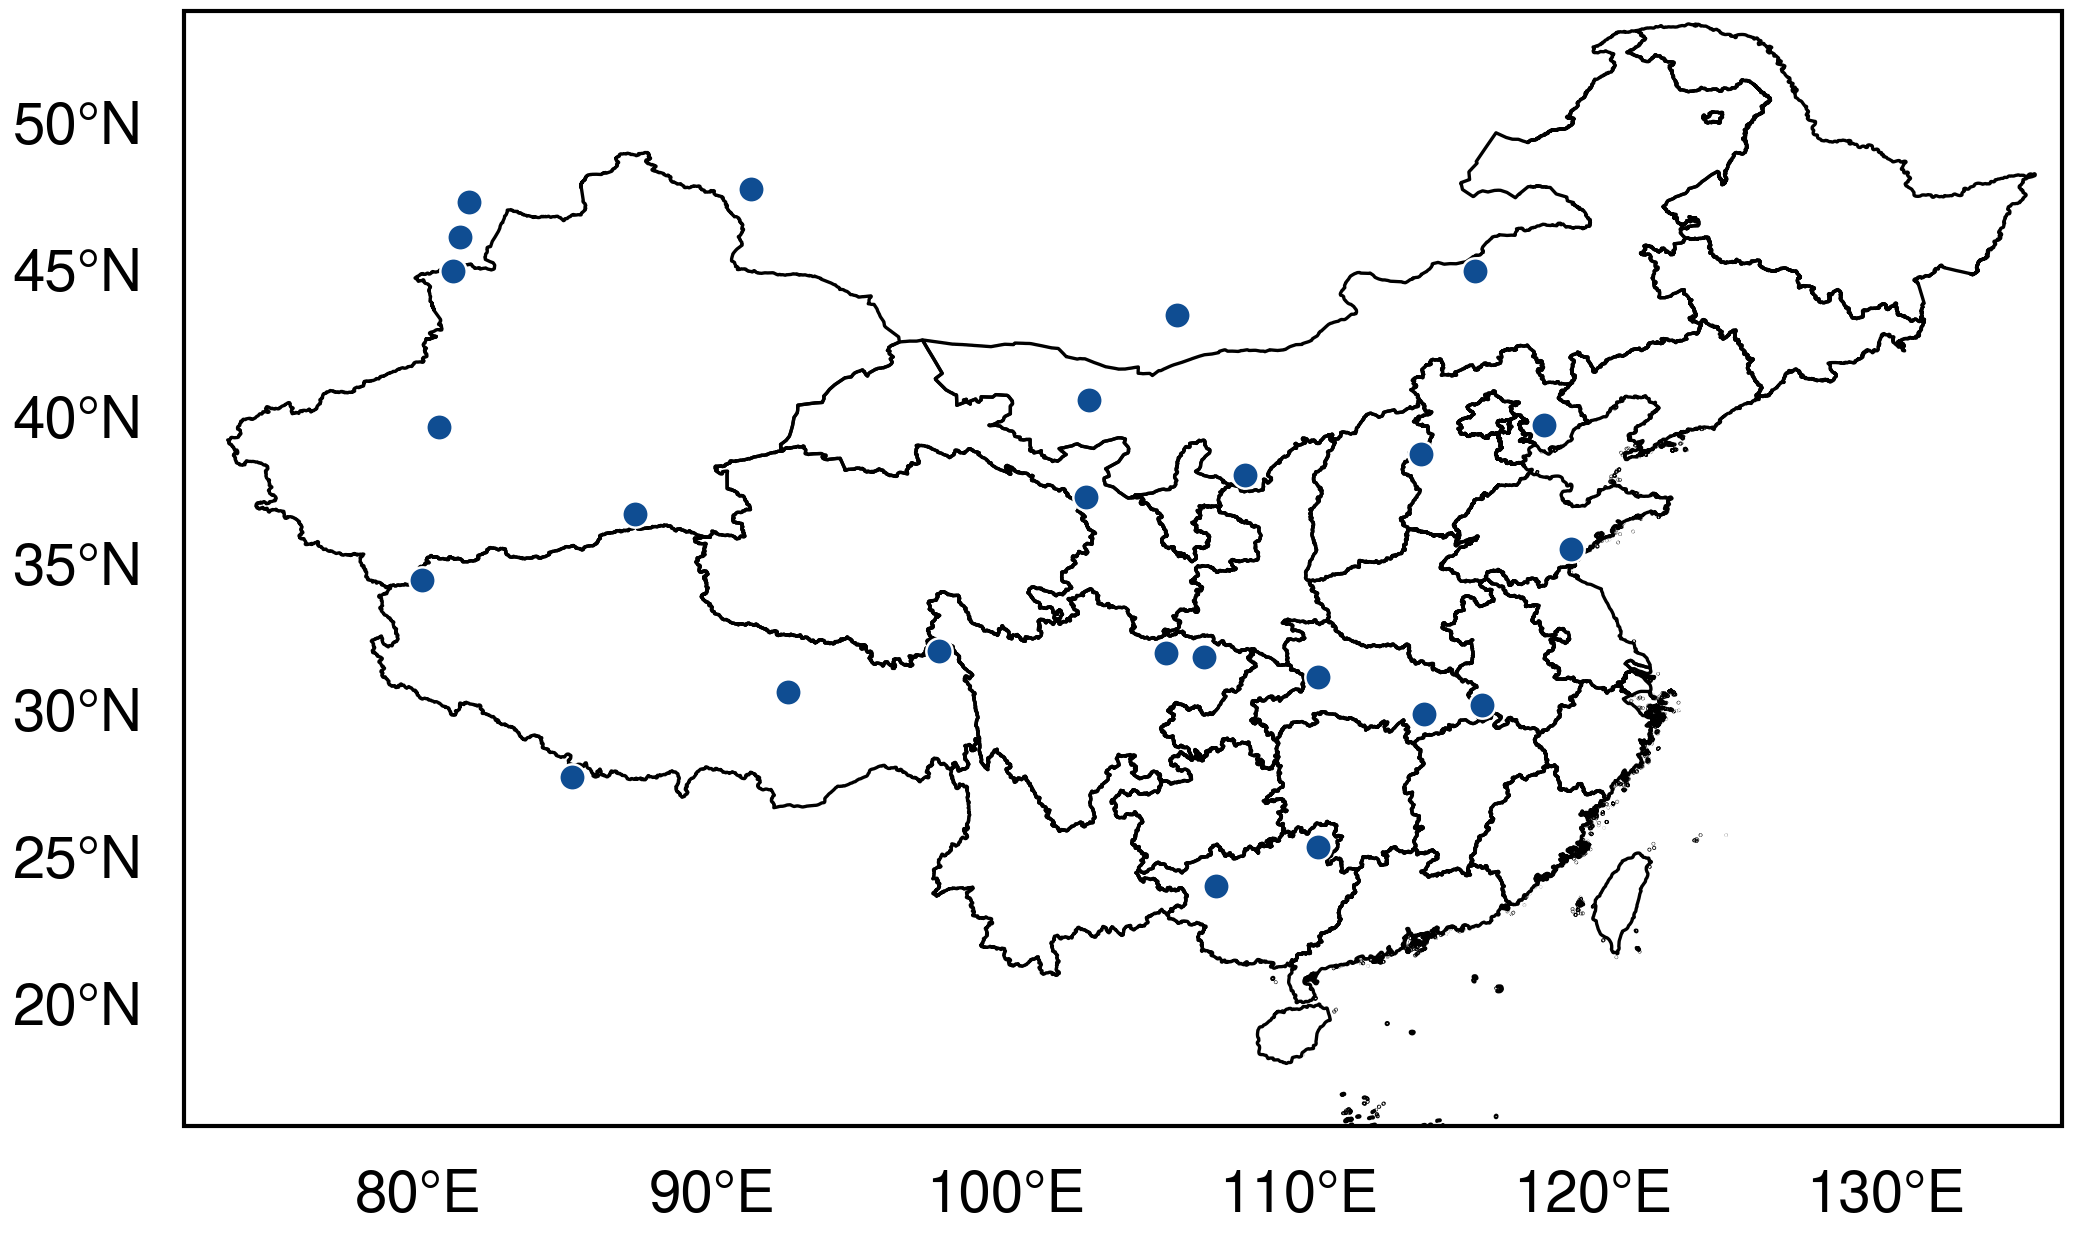
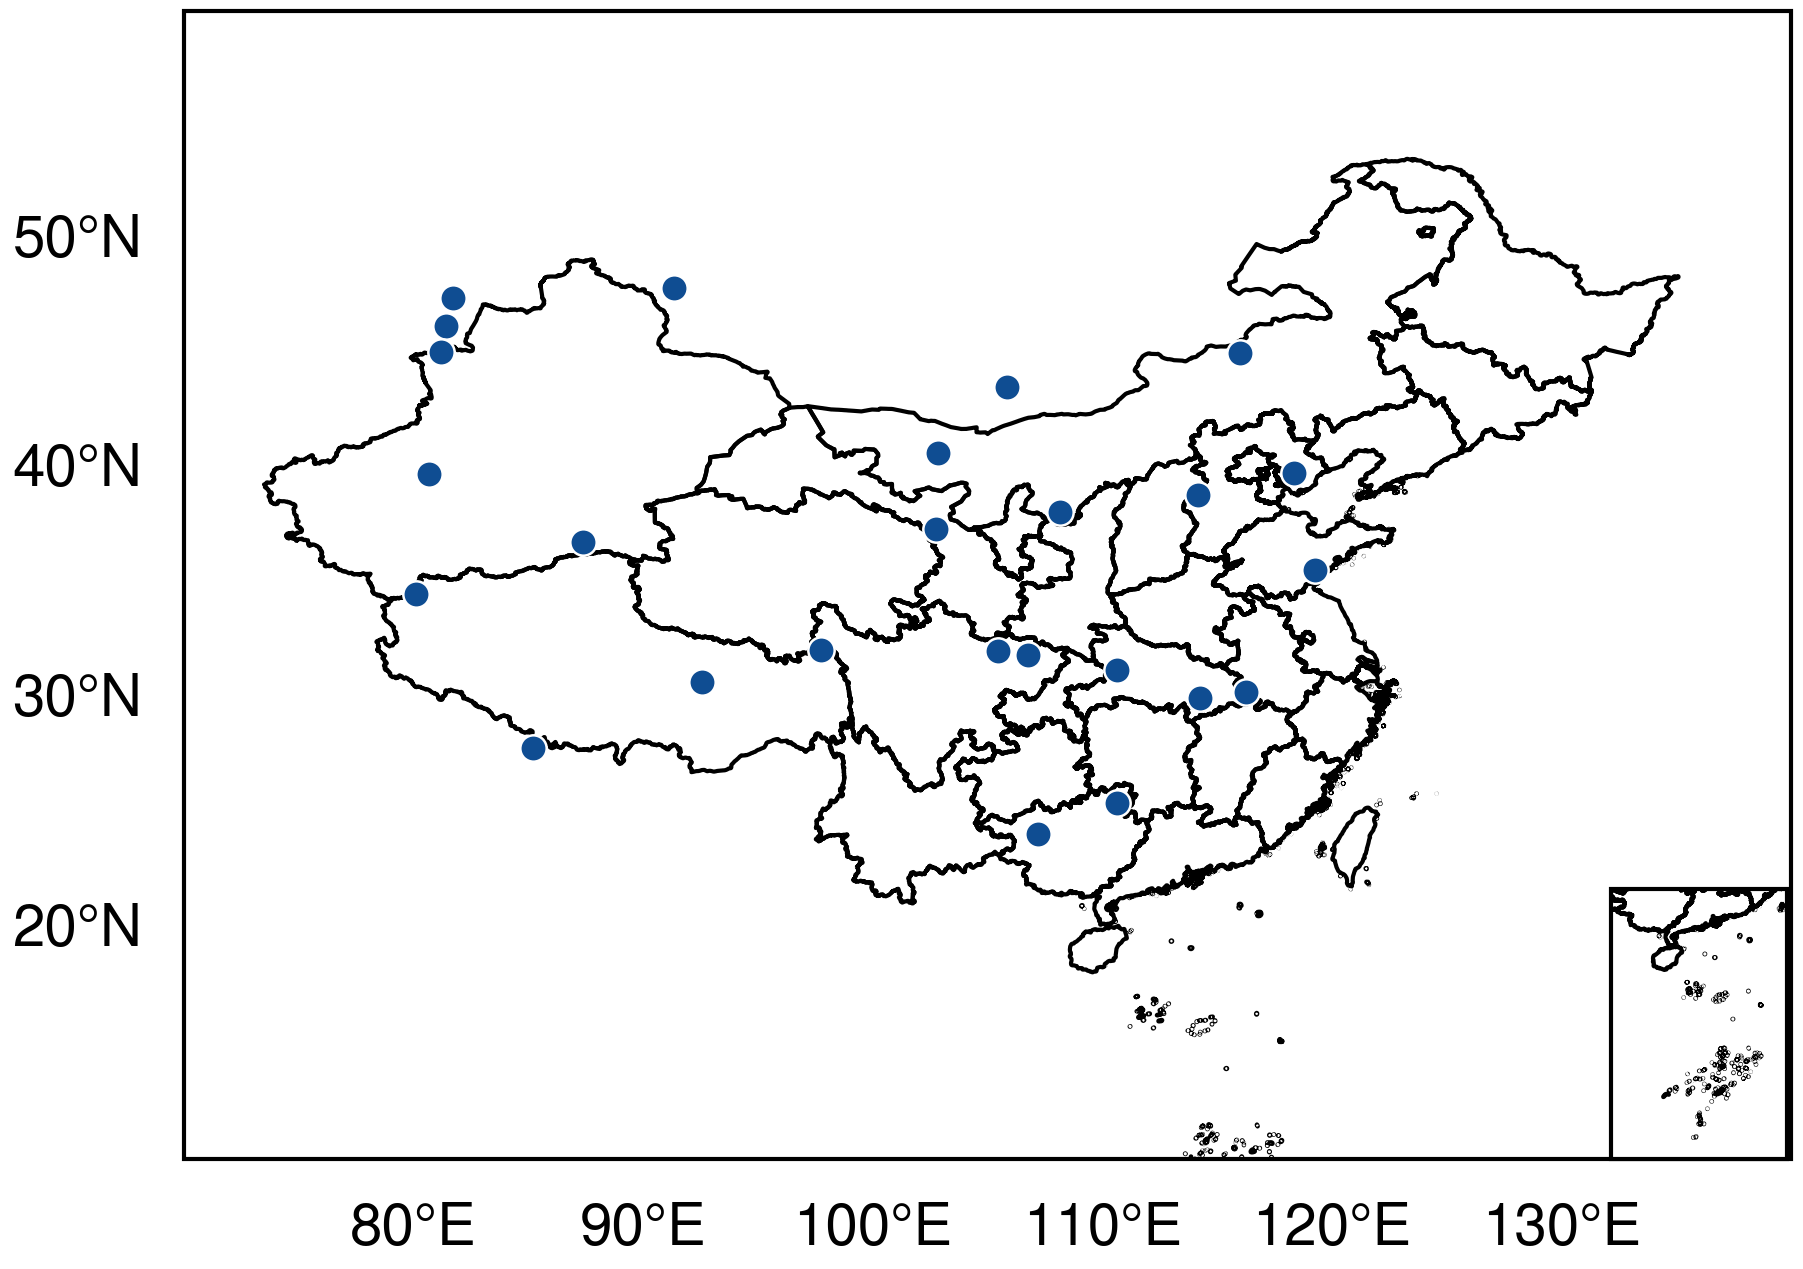
feat: nine-dash-line inset on China map + restructure layout example
- maps/china_provinces.py: add bottom-right South China Sea inset carrying
  the nine-dash line (南海九段线); use ax.add_geometries(crs inline), whole-
  country extent [70,140,10,60] + inset [105,120,2,25]; keep degree gridline
  labels (top/right off, no rotation)
- move subplot-organization example to layout/subplot_layouts.py (grids +
  mosaics, renders subplot_{grid,mosaic}.png); notebook -> layout/; drop old
  example_plot.ju.py
- update examples/README.md index + sci-figure SKILL.md (§3a, maps §7)

diff --git a/examples/maps/china_provinces.py b/examples/maps/china_provinces.py
@@ -1,12 +1,20 @@
-"""China provincial map on a cartopy axis — publication-styled with EasyPlotLib.
+"""China provincial map (with South China Sea inset) — styled with EasyPlotLib.
 
-The standard "study area over China" base map: province boundaries from
-:mod:`cnmaps` (``get_adm_maps`` — the correct, up-to-date national outline; do
-**not** read a random ``country.shp``) on a :class:`cartopy.crs.PlateCarree`
-axis, with clean degree tick labels via :func:`EasyPlotLib.cartopy_plot_tickmarks`.
+The standard "study area over China" base map, drawn the compliant way:
 
-Drop your own data on top: ``ax.scatter(lon, lat, transform=ccrs.PlateCarree())``,
-``ax.contourf(...)``, station markers, etc.
+* a main axis showing the mainland with provincial boundaries from :mod:`cnmaps`
+  (``get_adm_maps`` — the correct, up-to-date national outline; do **not** read a
+  random ``country.shp``), and
+* a small **South China Sea inset in the bottom-right corner** carrying the
+  nine-dash line (南海九段线) — the conventional, publication-required layout for
+  any map of China.
+
+The nine-dash line ships *inside the province set* (cnmaps attaches the South
+China Sea islands to Hainan, so ``get_adm_maps(level="省")`` already reaches
+~3.8°N); the same ``china_map`` therefore draws both the main map and the inset.
+Geometries are added with ``ax.add_geometries(geom, crs=PROJ, ...)``, which takes
+the source CRS inline (cnmaps returns lon/lat with no CRS tag). Drop your own data
+on the main axis with ``ax.scatter(lon, lat, transform=PROJ)`` etc.
 
 Dependencies beyond EasyPlotLib: ``cartopy``, ``cnmaps``.
 
@@ -24,34 +32,51 @@ import numpy as np
 import EasyPlotLib as epl
 
 HERE = os.path.dirname(__file__)
+PROJ = ccrs.PlateCarree()
+
+EXTENTS_MAIN = [70, 140, 10, 60]   # whole country, mainland-framed
+EXTENTS_SUB = [105, 120, 2, 25]    # South China Sea / nine-dash line
+
+
+def _draw_china(ax, china_map, lw=0.5):
+    ax.add_geometries(china_map.geometry, crs=PROJ, facecolor="none",
+                      edgecolor="black", linewidth=lw)
 
 
 def main():
-    # Square-ish single Nature column — a map should not be stretched.
+    # Square-ish single Nature column — a projected map should not be stretched.
     epl.journal_style("nat1", base_style="nature", ratio=1.0)
-
-    crs = ccrs.PlateCarree()
-    fig, ax = plt.subplots(subplot_kw={"projection": crs})
 
     from cnmaps import get_adm_maps
 
-    china = get_adm_maps(level="省", engine="geopandas")
-    china.plot(ax=ax, edgecolor="black", facecolor="none", linewidth=0.4)
+    china_map = get_adm_maps(level="省", engine="geopandas")
+
+    fig, ax = plt.subplots(subplot_kw={"projection": PROJ})
+    _draw_china(ax, china_map)
 
     # Example payload: a few station markers (replace with your data).
     rng = np.random.default_rng(0)
     lon = rng.uniform(80, 122, 25)
     lat = rng.uniform(22, 48, 25)
     ax.scatter(lon, lat, s=10, color=epl.SEMANTIC["blue_main"],
-               edgecolor="white", linewidth=0.3, transform=crs, zorder=5)
+               edgecolor="white", linewidth=0.3, transform=PROJ, zorder=5)
 
-    ax.set_extent([72, 136, 16, 54], crs=crs)
+    ax.set_extent(EXTENTS_MAIN, crs=PROJ)
 
     gl = ax.gridlines(draw_labels=True, color="none", linestyle="dotted",
-                      transform=crs)
+                      transform=PROJ)
     gl.top_labels = gl.right_labels = False
     gl.rotate_labels = False
     epl.cartopy_plot_tickmarks(ax, gl)
+
+    # South China Sea inset, bottom-right corner, carrying the nine-dash line.
+    sub = ax.inset_axes((0.825, 0.0, 0.235, 0.235), projection=PROJ)
+    _draw_china(sub, china_map)
+    sub.set_extent(EXTENTS_SUB, crs=PROJ)
+    sub.set_xticks([])
+    sub.set_yticks([])
+    for spine in sub.spines.values():
+        spine.set_linewidth(0.5)
 
     out = os.path.join(HERE, "china_provinces")
     paths = epl.save_pub(fig, out, formats=("pdf", "png"))

diff --git a/examples/layout/subplot_layouts.py b/examples/layout/subplot_layouts.py
@@ -1,0 +1,93 @@
+"""Organizing subplots — grids and mosaics, sized & labelled for journals.
+
+How to lay out multi-panel figures with EasyPlotLib so each panel ends up the
+right shape and every panel carries a bold letter. Two patterns:
+
+1. **Regular grid** — ``plt.subplots(nrows, ncols)``. Pass the *same* ``nrows,
+   ncols`` to :func:`EasyPlotLib.journal_style`; it derives a figure aspect
+   (``golden × nrows/ncols``) so each *cell* lands ≈ golden ratio. Share axes to
+   drop redundant tick labels.
+2. **Irregular mosaic** — ``plt.subplot_mosaic`` for panels of differing size
+   (one hero panel + supporting ones). ``per_subplot_kw`` customises individual
+   panels (projections, etc.).
+
+Panel letters come from :func:`EasyPlotLib.subplot_labels` (8 pt bold, journal
+convention). Pure matplotlib — no cartopy/cnmaps needed.
+
+Run::
+
+    python examples/layout/subplot_layouts.py   # writes subplot_{grid,mosaic}.png
+"""
+
+import os
+
+import matplotlib.pyplot as plt
+import numpy as np
+
+import EasyPlotLib as epl
+
+HERE = os.path.dirname(__file__)
+rng = np.random.default_rng(0)
+
+
+def grid():
+    """2×3 regular grid; shared axes; one bold letter per panel."""
+    # Same nrows/ncols -> each cell comes out ≈ golden ratio.
+    epl.journal_style("nat2", nrows=2, ncols=3)
+
+    fig, axs = plt.subplots(2, 3, sharex=True, sharey=True)
+    x = np.linspace(0, 2 * np.pi, 200)
+    for n, ax in enumerate(axs.flatten()):
+        ax.plot(x, np.sin(x + n * 0.5), color=epl.SEMANTIC["blue_main"])
+        ax.plot(x, np.cos(x + n * 0.5), color=epl.SEMANTIC["neutral_mid"])
+        ax.annotate(**epl.subplot_labels(n, "a"))
+    for ax in axs[-1]:
+        ax.set_xlabel("phase")
+    for ax in axs[:, 0]:
+        ax.set_ylabel("amplitude")
+    return fig, "subplot_grid"
+
+
+def mosaic():
+    """Irregular mosaic: one wide hero panel + three supporting panels."""
+    # A 2-column figure, a touch taller than golden to fit two rows.
+    epl.journal_style("nat2", inverted_aspect_ratio=0.62)
+
+    fig, axd = plt.subplot_mosaic(
+        """
+        AAB
+        AAC
+        """
+    )
+    # Hero panel A: a filled trend.
+    x = np.linspace(0, 10, 200)
+    y = 1 - np.exp(-x / 3)
+    axd["A"].plot(x, y, color=epl.SEMANTIC["blue_main"])
+    axd["A"].fill_between(x, y - 0.05, y + 0.05,
+                          color=epl.SEMANTIC["blue_main"], alpha=0.2, lw=0)
+    axd["A"].set_xlabel("training steps (k)")
+    axd["A"].set_ylabel("performance")
+
+    # Supporting panels B, C: small distributions / bars.
+    axd["B"].bar(range(4), rng.uniform(0.4, 0.9, 4),
+                 color=epl.shades(epl.SEMANTIC["blue_main"], 4))
+    axd["B"].set_ylabel("score")
+    axd["C"].hist(rng.normal(size=300), bins=20,
+                  color=epl.SEMANTIC["neutral_mid"])
+    axd["C"].set_xlabel("residual")
+
+    for n, key in enumerate("ABC"):
+        axd[key].annotate(**epl.subplot_labels(n, "a"))
+    return fig, "subplot_mosaic"
+
+
+def main():
+    for build in (grid, mosaic):
+        fig, name = build()
+        paths = epl.save_pub(fig, os.path.join(HERE, name), formats=("png",))
+        plt.close(fig)
+        print("wrote", *paths)
+
+
+if __name__ == "__main__":
+    main()

diff --git a/examples/README.md b/examples/README.md
@@ -6,14 +6,15 @@ a blank script. The `sci-figure` skill uses this index the same way.
 
 ```
 examples/
-├── gallery.py          charts — one publication panel per archetype
-├── gallery/*.png       rendered chart panels
-├── maps/               geoscience maps (cartopy + cnmaps + salem)
-│   ├── china_provinces.py
-│   ├── wrf_domain.py
+├── gallery.py              charts — one publication panel per archetype
+├── gallery/*.png           rendered chart panels
+├── maps/                   geoscience maps (cartopy + cnmaps + salem)
+│   ├── china_provinces.py      study-area map + South China Sea inset
+│   ├── wrf_domain.py           WRF nested domains from namelist.wps
 │   └── data/namelist.wps
-├── example_plot.ju.py  layout / basics (panels, sizing, mosaic)
-└── example_plot.ipynb  same, as a notebook
+└── layout/                 organizing multi-panel figures
+    ├── subplot_layouts.py      grids + mosaics, sized & labelled
+    └── subplot_layouts.ipynb   notebook companion
 ```
 
 ## Charts — `gallery.py`
@@ -40,29 +41,39 @@ Shared APIs: `journal_style`, `subplot_labels`, `save_pub`. Deps: numpy, matplot
 
 Geoscience base maps. **China admin boundaries always via `from cnmaps import
 get_adm_maps`** (`get_adm_maps(level="省", engine="geopandas")`) — never an ad-hoc
-`country.shp`. `cnmaps` returns lon/lat with no CRS tag, so call
-`.set_crs("EPSG:4326")` before reprojecting with salem.
+`country.shp`. The nine-dash line (南海九段线) ships inside the province set
+(cnmaps attaches the South China Sea islands to Hainan, reaching ~3.8°N), so the
+**bottom-right SCS inset draws the same `china_map`**. Add geometries with
+`ax.add_geometries(china_map.geometry, crs=PROJ, ...)`, which takes the CRS inline
+(cnmaps returns lon/lat untagged); for salem instead call `.set_crs("EPSG:4326")`.
 
 | Want… | Example | Stack | Deps |
 |---|---|---|---|
-| study-area map over China, drop your own data on top | [`china_provinces.py`](maps/china_provinces.py) → [png](maps/china_provinces.png) | cartopy axis + `cnmaps`; `cartopy_plot_tickmarks` for ticks | cartopy, cnmaps |
+| study-area map over China **with nine-dash-line inset** (bottom-right) | [`china_provinces.py`](maps/china_provinces.py) → [png](maps/china_provinces.png) | cartopy axis + `cnmaps`; `ax.inset_axes(...)` SCS inset; `cartopy_plot_tickmarks` for degree labels | cartopy, cnmaps |
 | WRF nested-domain / model-config map (D01, D02 …) | [`wrf_domain.py`](maps/wrf_domain.py) → [png](maps/wrf_domain.png) | `geogrid_simulator(namelist.wps)` → salem `Grid`/`Map`, Natural-Earth bg, `cnmaps` provinces | salem, cnmaps, shapely |
 
 <p align="center">
   <img src="maps/china_provinces.png" width="300">
   <img src="maps/wrf_domain.png" width="270"><br>
-  <sub><code>china_provinces.py</code> · <code>wrf_domain.py</code> (D01 + D02 nest)</sub>
+  <sub><code>china_provinces.py</code> (nine-dash inset) · <code>wrf_domain.py</code> (D01 + D02 nest)</sub>
 </p>
 
 Notes: salem's `set_rgb(natural_earth="hr")` downloads on first use (and the CDN
 can 406) — `"lr"` ships with salem and works offline. WRF namelists live in
 [`maps/data/`](maps/data).
 
-## Layout / basics — `example_plot.ju.py` · `example_plot.ipynb`
+## Layout — `layout/subplot_layouts.py`
 
-Multi-panel layout, journal column sizing, panel labels, `subplot_mosaic`, and a
-cartopy China map with clean ticks. APIs: `figsizes`, `subplot_labels`,
-`cartopy_plot_tickmarks`. Deps: cartopy, cnmaps.
+How to organize multi-panel figures so each panel is correctly shaped and
+labelled. Two patterns, each rendered to a PNG:
+
+| Pattern | When | Key call |
+|---|---|---|
+| regular grid ([`subplot_grid.png`](layout/subplot_grid.png)) | panels of equal size/role | `plt.subplots(nrows, ncols)` + matching `journal_style(nrows=, ncols=)` so each cell ≈ golden; share axes |
+| irregular mosaic ([`subplot_mosaic.png`](layout/subplot_mosaic.png)) | one hero panel + supporting ones | `plt.subplot_mosaic("AAB\nAAC")` |
+
+APIs: `journal_style`, `subplot_labels`, `save_pub`. Deps: numpy, matplotlib (no
+cartopy/cnmaps). `subplot_layouts.ipynb` is the notebook companion.
 
 ## Conventions worth copying
 
